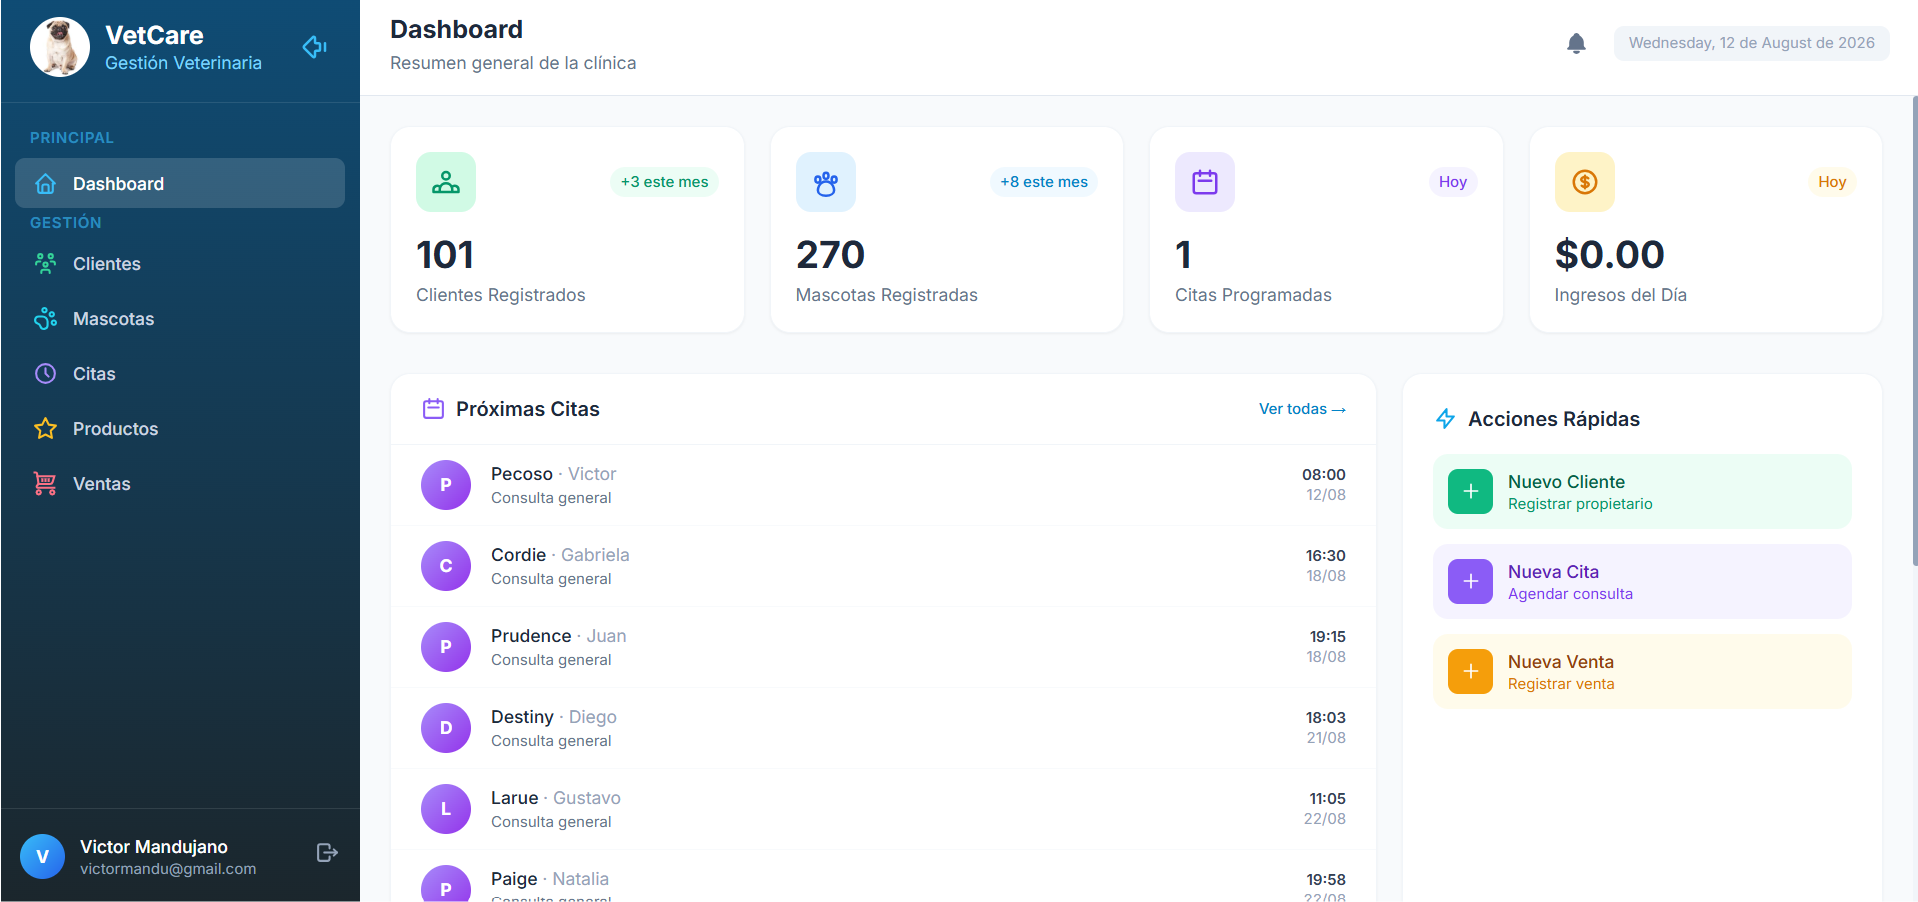
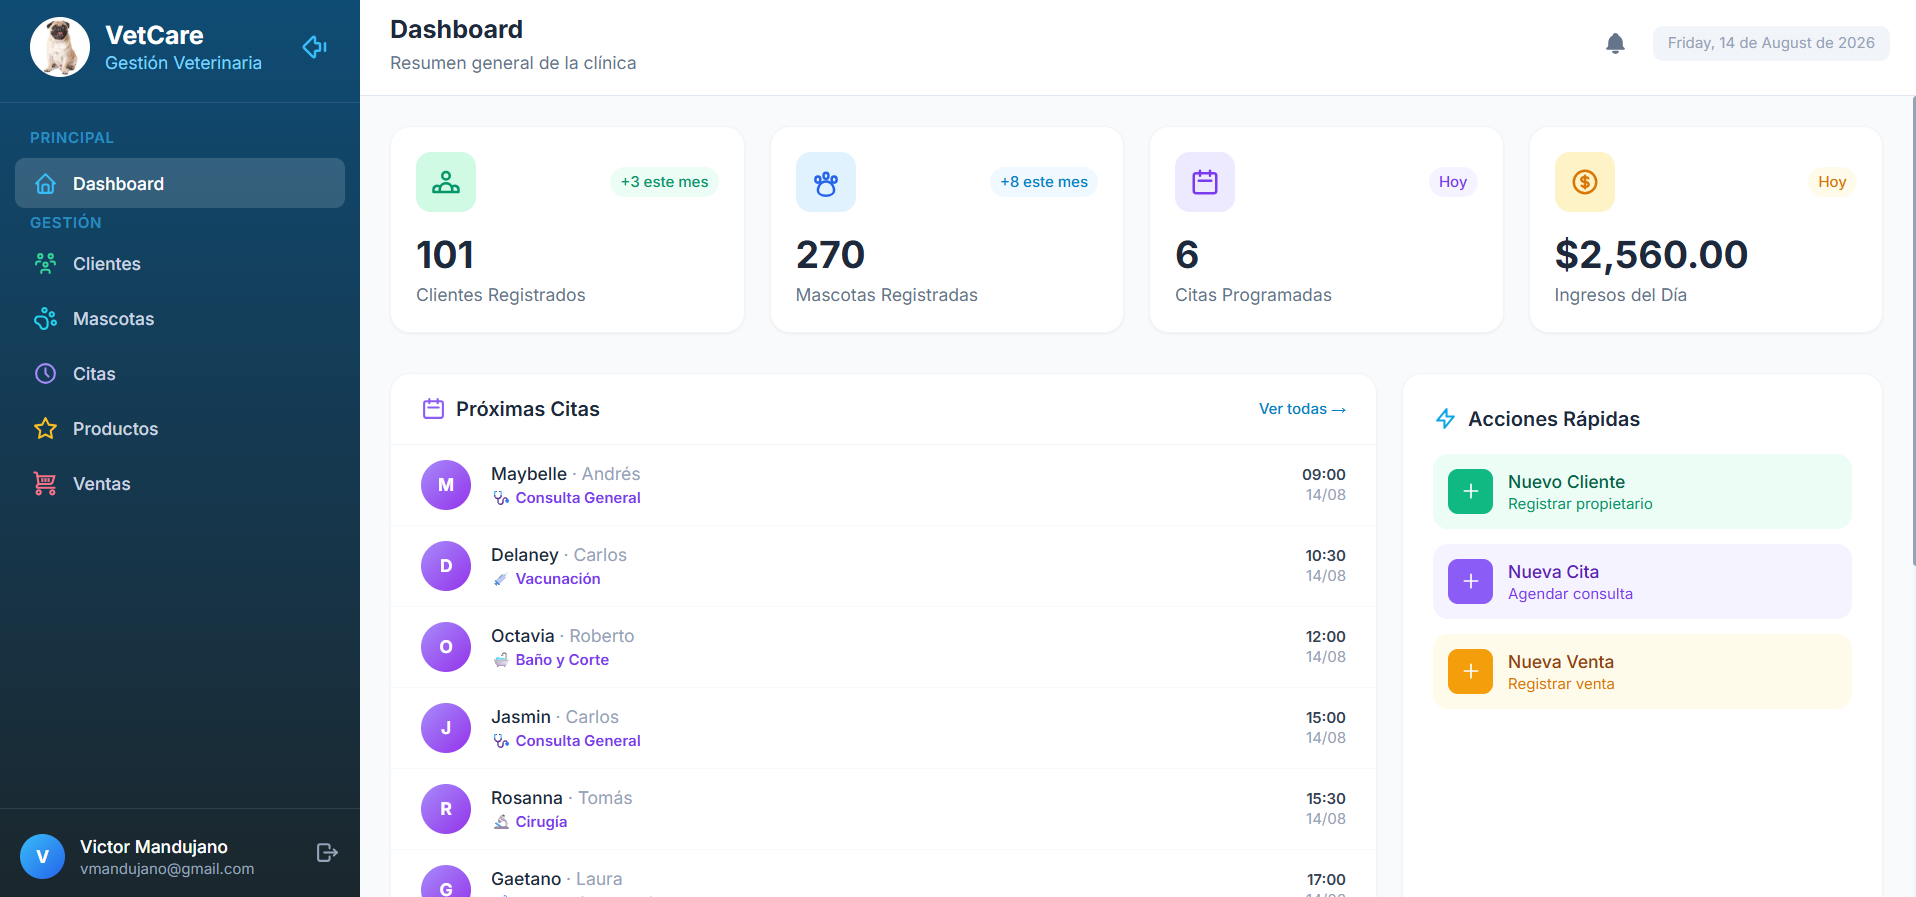
docs: actualizar README con estructura final y capturas de pantalla del sistema

diff --git a/resources/views/dashboard.blade.php b/resources/views/dashboard.blade.php
@@ -959,7 +959,27 @@
                                 {{ $cita->mascota->nombre ?? '—' }}
                                 <span class="text-slate-400 font-normal">· {{ $cita->cliente->nombre ?? '' }}</span>
                             </p>
-                            <p class="text-xs text-slate-500 mt-0.5">{{ $cita->motivo ?? 'Consulta general' }}</p>
+                            <p class="text-xs font-semibold text-violet-600 mt-0.5">
+                                @php
+                                    $icono = match($cita->tipo_servicio) {
+                                        'Consulta General' => '🩺',
+                                        'Vacunación' => '💉',
+                                        'Desparasitación' => '🦠',
+                                        'Baño y Corte' => '🛁',
+                                        'Esterilización/Castración' => '✂',
+                                        'Cirugía' => '🔬',
+                                        'Laboratorio' => '🧪',
+                                        'Rayos X / Ultrasonido' => '📡',
+                                        'Chequeo General' => '📋',
+                                        'Urgencias' => '🚨',
+                                        default => '🐾'
+                                    };
+                                @endphp
+                                {{ $icono }} {{ $cita->tipo_servicio ?? 'Consulta general' }}
+                                @if($cita->motivo)
+                                    <span class="text-slate-500 font-normal ml-1 border-l border-slate-300 pl-1">{{ Str::limit($cita->motivo, 35) }}</span>
+                                @endif
+                            </p>
                         </div>
                         <div class="text-right flex-shrink-0">
                             <p class="text-xs font-semibold text-slate-700">{{ \Carbon\Carbon::parse($cita->hora)->format('H:i') }}</p>

diff --git a/seed_citas.php b/seed_citas.php
@@ -1,0 +1,45 @@
+<?php
+use App\Models\Configuracion;
+use App\Models\Cita;
+use App\Models\Mascota;
+use App\Models\User;
+use Carbon\Carbon;
+
+// 1. Update servicios
+$config = Configuracion::first();
+$servicios = [
+    ['nombre' => 'Consulta General', 'precio' => 300],
+    ['nombre' => 'Vacunación', 'precio' => 450],
+    ['nombre' => 'Baño y Corte', 'precio' => 600],
+    ['nombre' => 'Cirugía', 'precio' => 2500],
+    ['nombre' => 'Rayos X / Ultrasonido', 'precio' => 1200]
+];
+$config->servicios = $servicios; // Eloquent cast will encode to JSON
+$config->save();
+
+// 2. Get random pets
+$mascotas = Mascota::inRandomOrder()->limit(5)->get();
+$user = User::first(); // Assuming there's a user to assign user_id
+$hoy = Carbon::today()->format('Y-m-d');
+$horas = ['09:00', '10:30', '12:00', '15:30', '17:00'];
+
+// 3. Create appointments
+foreach ($mascotas as $i => $mascota) {
+    $servicio = $servicios[$i];
+    
+    Cita::create([
+        'user_id' => $user->id,
+        'cliente_id' => $mascota->cliente_id,
+        'mascota_id' => $mascota->id,
+        'fecha' => $hoy,
+        'hora' => $horas[$i],
+        'tipo_servicio' => $servicio['nombre'],
+        'precio' => $servicio['precio'],
+        'motivo' => 'Motivo autogenerado para demostración de ' . $servicio['nombre'],
+        'estado' => 'confirmada', // 'confirmada'
+        'enviado_email' => 1,
+        'enviado_whatsapp' => 0
+    ]);
+}
+
+echo "5 citas creadas exitosamente.";

diff --git a/resources/views/layouts/app.blade.php b/resources/views/layouts/app.blade.php
@@ -355,8 +355,8 @@
                 
                 <!-- Contenedor del Logo / Icono -->
                 <div class="w-12 h-12 bg-[#0c3859] rounded-full flex items-center justify-center shrink-0 overflow-hidden">
-                    @if($clinica_config->clinica_logo)
-                        <img src="{{ Storage::url($clinica_config->clinica_logo) }}" alt="Logo" class="w-full h-full object-cover">
+                    @if($clinica_config->clinica_logo && Storage::disk('public')->exists($clinica_config->clinica_logo))
+                        <img src="{{ Storage::url($clinica_config->clinica_logo) }}" alt="Logo" class="w-full h-full object-cover" onerror="this.onerror=null; this.outerHTML='<svg class=\'w-6 h-6 text-sky-400\' fill=\'none\' stroke=\'currentColor\' stroke-width=\'2\' viewBox=\'0 0 24 24\'><path stroke-linecap=\'round\' stroke-linejoin=\'round\' d=\'M16 7a4 4 0 11-8 0 4 4 0 018 0z\'></path><path stroke-linecap=\'round\' stroke-linejoin=\'round\' d=\'M12 14a7 7 0 00-7 7h14a7 7 0 00-7-7z\'></path></svg>';">
                     @else
                         <svg class="w-6 h-6 text-sky-400" fill="none" stroke="currentColor" stroke-width="2" viewBox="0 0 24 24">
                             <path stroke-linecap="round" stroke-linejoin="round" d="M16 7a4 4 0 11-8 0 4 4 0 018 0z"></path>
